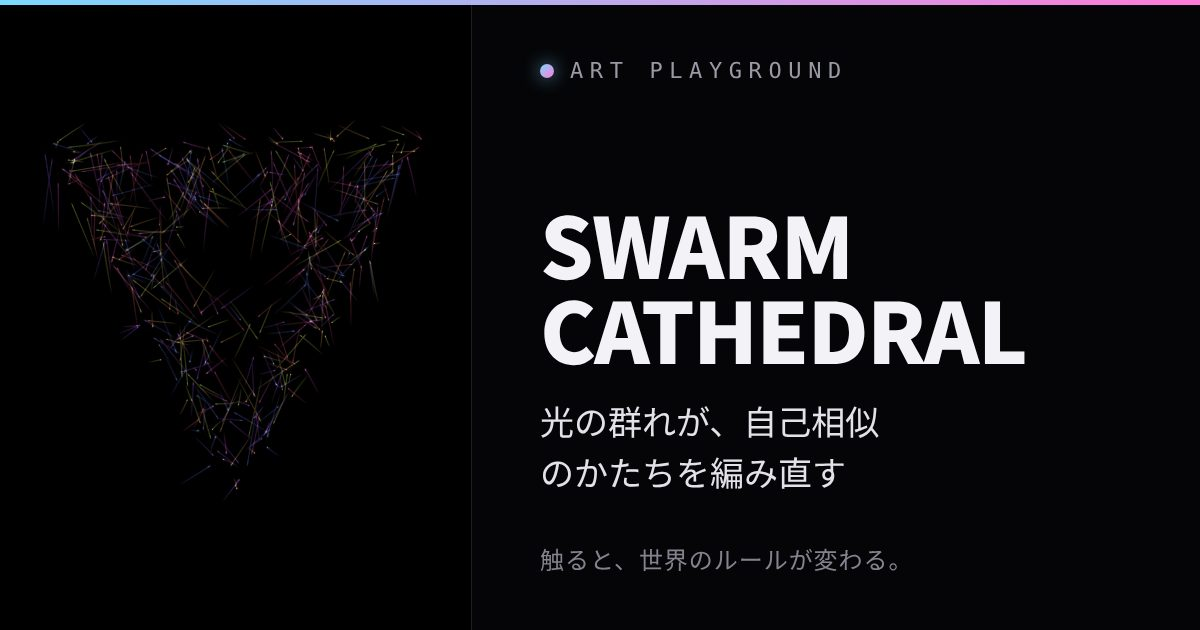
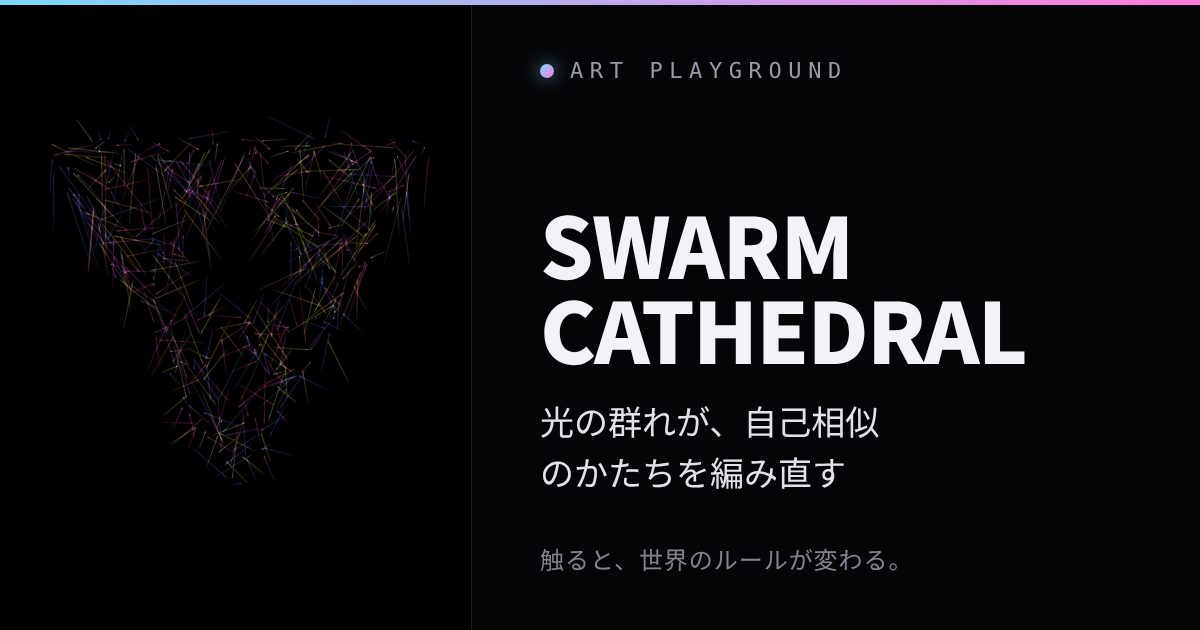
Fix gray afterimage haze in four light-fractal works
Fading by stacking translucent black each frame leaves dim pixels stuck
above zero on Safari (worse at 120Hz). Subtract 1 from all channels every
0.05s to clear the residue. Posters and OG cards regenerated.

Claude-Session: https://claude.ai/code/session_01Vd6xtoDL5wHx6tP8VrJyBW

Changed region(s): [[0.0308, 0.2111, 0.3392, 0.754]]

diff --git a/art-v97-mirror-pool.html b/art-v97-mirror-pool.html
@@ -252,6 +252,21 @@
   }
 
   /* ======== 描画：ひとつの絵を6回、交互に鏡映して重ねる ======== */
+  /* ---- 消え残り対策 ----
+     毎フレーム少しずつ黒を重ねて暗くする方式は、明るさが整数(0〜255)のため、
+     暗い点ほど「2%暗く」が丸められて0まで下がらず、灰色のもやとして残りつづける。
+     0.05秒ごとに明るさを一律1だけ引いて、その残りを確実に消す
+     (白で反転→1を足す→白で反転し戻す、の3回の塗りで「引き算」になる)。 */
+  var floorT = 0;
+  function clearResidue(c2, w, h) {
+    c2.save();
+    c2.setTransform(1, 0, 0, 1, 0, 0);
+    c2.globalAlpha = 1;
+    c2.globalCompositeOperation = 'difference'; c2.fillStyle = '#fff'; c2.fillRect(0, 0, w, h);
+    c2.globalCompositeOperation = 'lighter';    c2.fillStyle = 'rgb(1,1,1)'; c2.fillRect(0, 0, w, h);
+    c2.globalCompositeOperation = 'difference'; c2.fillStyle = '#fff'; c2.fillRect(0, 0, w, h);
+    c2.restore();
+  }
   function render(dt) {
     var fadeA = 1 - Math.exp(-0.9 * dt);              /* バッファはゆっくり消えていく＝長い尾 */
     if (fadeA < 0.0005) fadeA = 0.0005;
@@ -260,6 +275,9 @@
     actx.globalAlpha = 1;
     actx.fillStyle = 'rgba(0,0,0,' + fadeA.toFixed(5) + ')';
     actx.fillRect(0, 0, W, H);
+
+    floorT += dt;
+    if (floorT >= 0.05) { floorT = 0; clearResidue(actx, acc.width, acc.height); }
 
     ctx.setTransform(DPR, 0, 0, DPR, 0, 0);
     ctx.globalCompositeOperation = 'source-over';

diff --git a/art-v94-attractor-veil.html b/art-v94-attractor-veil.html
@@ -234,6 +234,21 @@
   }
 
   /* ---- 描画 ---- */
+  /* ---- 消え残り対策 ----
+     毎フレーム少しずつ黒を重ねて暗くする方式は、明るさが整数(0〜255)のため、
+     暗い点ほど「2%暗く」が丸められて0まで下がらず、灰色のもやとして残りつづける。
+     0.05秒ごとに明るさを一律1だけ引いて、その残りを確実に消す
+     (白で反転→1を足す→白で反転し戻す、の3回の塗りで「引き算」になる)。 */
+  var floorT = 0;
+  function clearResidue(c2, w, h) {
+    c2.save();
+    c2.setTransform(1, 0, 0, 1, 0, 0);
+    c2.globalAlpha = 1;
+    c2.globalCompositeOperation = 'difference'; c2.fillStyle = '#fff'; c2.fillRect(0, 0, w, h);
+    c2.globalCompositeOperation = 'lighter';    c2.fillStyle = 'rgb(1,1,1)'; c2.fillRect(0, 0, w, h);
+    c2.globalCompositeOperation = 'difference'; c2.fillStyle = '#fff'; c2.fillRect(0, 0, w, h);
+    c2.restore();
+  }
   function render(dt) {
     var fadeA = 1 - Math.exp(-0.85 * dt);              /* ゆっくり消える＝雲が尾を引く */
     if (fadeA < 0.0008) fadeA = 0.0008;
@@ -241,6 +256,9 @@
     actx.globalCompositeOperation = 'source-over'; actx.globalAlpha = 1;
     actx.fillStyle = 'rgba(0,0,0,' + fadeA.toFixed(5) + ')';
     actx.fillRect(0, 0, acc.width, acc.height);
+
+    floorT += dt;
+    if (floorT >= 0.05) { floorT = 0; clearResidue(actx, acc.width, acc.height); }
     plot(dt);
 
     ctx.setTransform(DPR, 0, 0, DPR, 0, 0);

diff --git a/art-v98-swarm-cathedral.html b/art-v98-swarm-cathedral.html
@@ -246,6 +246,21 @@
   }
 
   /* ---- 描画 ---- */
+  /* ---- 消え残り対策 ----
+     毎フレーム少しずつ黒を重ねて暗くする方式は、明るさが整数(0〜255)のため、
+     暗い点ほど「2%暗く」が丸められて0まで下がらず、灰色のもやとして残りつづける。
+     0.05秒ごとに明るさを一律1だけ引いて、その残りを確実に消す
+     (白で反転→1を足す→白で反転し戻す、の3回の塗りで「引き算」になる)。 */
+  var floorT = 0;
+  function clearResidue(c2, w, h) {
+    c2.save();
+    c2.setTransform(1, 0, 0, 1, 0, 0);
+    c2.globalAlpha = 1;
+    c2.globalCompositeOperation = 'difference'; c2.fillStyle = '#fff'; c2.fillRect(0, 0, w, h);
+    c2.globalCompositeOperation = 'lighter';    c2.fillStyle = 'rgb(1,1,1)'; c2.fillRect(0, 0, w, h);
+    c2.globalCompositeOperation = 'difference'; c2.fillStyle = '#fff'; c2.fillRect(0, 0, w, h);
+    c2.restore();
+  }
   function render(dt) {
     var fadeA = 1 - Math.exp(-6.5 * dt);
     if (fadeA < 0.02) fadeA = 0.02;
@@ -254,6 +269,8 @@
     ctx.globalCompositeOperation = 'source-over'; ctx.globalAlpha = 1;
     ctx.fillStyle = 'rgba(0,0,0,' + fadeA.toFixed(4) + ')';
     ctx.fillRect(0, 0, W, H);
+    floorT += dt;
+    if (floorT >= 0.05) { floorT = 0; clearResidue(ctx, cvs.width, cvs.height); }
     ctx.globalCompositeOperation = 'lighter';
 
     var i, band, hue, pa = ctx.globalAlpha;

diff --git a/art-v99-morphing-fern.html b/art-v99-morphing-fern.html
@@ -308,6 +308,21 @@
   }
 
   /* ======== 描画 ======== */
+  /* ---- 消え残り対策 ----
+     毎フレーム少しずつ黒を重ねて暗くする方式は、明るさが整数(0〜255)のため、
+     暗い点ほど「2%暗く」が丸められて0まで下がらず、灰色のもやとして残りつづける。
+     0.05秒ごとに明るさを一律1だけ引いて、その残りを確実に消す
+     (白で反転→1を足す→白で反転し戻す、の3回の塗りで「引き算」になる)。 */
+  var floorT = 0;
+  function clearResidue(c2, w, h) {
+    c2.save();
+    c2.setTransform(1, 0, 0, 1, 0, 0);
+    c2.globalAlpha = 1;
+    c2.globalCompositeOperation = 'difference'; c2.fillStyle = '#fff'; c2.fillRect(0, 0, w, h);
+    c2.globalCompositeOperation = 'lighter';    c2.fillStyle = 'rgb(1,1,1)'; c2.fillRect(0, 0, w, h);
+    c2.globalCompositeOperation = 'difference'; c2.fillStyle = '#fff'; c2.fillRect(0, 0, w, h);
+    c2.restore();
+  }
   function render(dt) {
     var fadeA = 1 - Math.exp(-1.25 * dt);                 /* 尾を少し残す＝光の雲 */
     if (fadeA < 0.001) fadeA = 0.001;
@@ -316,6 +331,9 @@
     actx.globalAlpha = 1;
     actx.fillStyle = 'rgba(0,0,0,' + fadeA.toFixed(5) + ')';
     actx.fillRect(0, 0, acc.width, acc.height);
+
+    floorT += dt;
+    if (floorT >= 0.05) { floorT = 0; clearResidue(actx, acc.width, acc.height); }
 
     plot();
 

diff --git a/CHANGELOG.md b/CHANGELOG.md
@@ -1,3 +1,4 @@
+- 2026-10-09 クロード: MORPHING FERN(v99)・ATTRACTOR VEIL(v94)・MIRROR POOL(v97)・SWARM CATHEDRAL(v98)の「残像の灰色のもや」を修正(おっちゃんがiPhoneのスクショで指摘「この残像みたいなのが要らない」)。原因: 毎フレーム薄い黒を重ねて暗くする方式は、明るさが整数のため暗い点の「数%暗く」が丸められて0まで下がらず灰色で残る(iPhoneの120Hzでは1コマの暗くする量が半分になり、明るさ約48以下が残る計算。ヘッドレスChromiumでは再現しない=Safari特有の丸め)。対策: 0.05秒ごとに明るさを一律1引く処理(白で反転→1足す→白で反転し戻す、の3回の塗り)を追加。ヘッドレスChromiumで引き算が正確(40→10回で30、黒は黒のまま)なこと、4作品のタップ・なぞる・✦・↻でエラーなしを確認。ポスター・OGPを作り直し、`--check`とも終了コード0。**iPhone実機(Safari)でもやが消えるかは未確認**(art-v94, art-v97, art-v98, art-v99, posters/, og/, CHANGELOG.md)
 - 2026-10-09 クロード: Arena持ち込みの光のフラクタル6作品を採用・art-v94〜v99として昇格し、ギャラリーLOG先頭に追加(おっちゃん「録画も付けて採用で」「他の作品も録画追加して採用」)。CURRENTはNEST LAWのまま。ATTRACTOR VEIL(v94、指が式の係数そのものを引っぱる)・DROSTE RAIN(v95、画面が自分の縮小写しを重ね無限の入れ子になる)・FROST CATHEDRAL(v96、拡散律速凝集の霜、風下へ伸び色の違う種が混ざる)・MIRROR POOL(v97、一枚の絵が六つに折り返される)・SWARM CATHEDRAL(v98、群れがIFS図形の持ち場をシャッフルして編み直す)・MORPHING FERN(v99、IFS係数の補間で別の生きものへ)。同じ作品集のGOLDEN BLOOMとTIDAL MANDALAは不採用(おっちゃん判断)。主な改良: ATTRACTOR VEIL=触ると止まるバグ(未定義スプライト)・高精細画面で絵が左上1/4にずれる・点が周期軌道に縮んで真っ暗になる・白飛びを修正し、外枠に合わせて画面中央に収める。DROSTE RAIN=多角形と四角の窓枠(おっちゃん「ダサい」)をしずくの弧に変更。FROST CATHEDRAL=色の組み合わせ6種(育つたび・↻以外の作り直しで替わる)、タップの種が別の色で育つ、粒を明るく、にじみの座標ずれを修正。全作品にap-kit.js統合(✦/↻・clockFormat/dock/autoHide/fullscreenButton:false、GIFなし、pointerdownの先頭でAPKit.isUI、#hintをボタン列の上へ)。`META`に6作品の操作ヒント、`REC_WORKS`に6作品を追加。Published worksはNEST LAWの直後に追加。`tools/poster-config.json`に6作品(`hide:#hint`ほか)を追加し、ポスターとOGPカードを生成、`gen_posters.py --check`・`gen_og.py --check`とも終了コード0(目視確認済み)。スマホ幅(390×844)のヘッドレスChromiumで、タップ・なぞる・✦・↻でエラーなし。ギャラリーの本物の録画ボタン→触る→停止を6作品とも通し、mp4(720幅)に作品と透かしが映り、始めと終わりで絵が変わることを確認。**スマホ実機での動作・録画中の重さは未確認**(MIRROR POOLは毎フレーム全画面を6回重ねるので一番重い可能性。重ければ`REC_WORKS`から外す)(art-v94〜v99, index.html, posters/, og/, tools/poster-config.json, CHANGELOG.md)
 - 2026-10-08 クロード: LIVING REEFをart-v93として採用・追加し、ギャラリーLOG先頭に追加(おっちゃんがArena(エージェントモード)で作った「Living Reef of Light」を持ち込み→クロちゃんが改良→「ボタン類を追加などしてから作品へ」)。CURRENTはNEST LAWのまま。世界のルールは「光の樹は枝先から胞子を飛ばし、その一部が種になって新しい樹がひとりでに生える(触らなくても増え、枯れ、入れ替わる)」。枝は5〜6階層の自己相似。改良点: ①下半分の樹は上へ、上半分の樹は天井から垂れ下がって伸びる(元は下半分にしか生えず上が真っ暗だった)②なぞる=風(なぞった方向に枝がしなり胞子が流れる。元は枝が指に吸い寄せられて団子になっていた)③種まきは指を離した時に判定し、なぞっただけでは植えない④120Hz画面で8bitの丸めにより残像が消え残る問題を、消す処理を1/70秒ぶん溜めてから行う方式で対策⑤指のオーラは押している間だけ(PCのホバーでは出さない)⑥操作説明に「光る芽をタップ=胞子が弾ける」を追加し、ap-kitのボタン列と重ならない高さへ移動。ap-kit.js統合(✦=別の色の組み合わせと枝ぶりで撒き直す、↻=最初の世界、clockFormat/dock/autoHide/fullscreenButton:false、GIF・？なし、pointerdownの先頭でAPKit.isUI)。Published worksはNEST LAWの直後に追加、`META`に操作ヒント「タップで光の種を植える。なぞると風が吹く」を1行追加。`tools/poster-config.json`に`hide:#hint`と種を3つ植える`taps`を追加し、ポスター(`posters/`)とOGPカード(`og/`)を生成、`gen_posters.py --check`・`gen_og.py --check`とも終了コード0(文字・指のオーラが写っていないことを目視で確認)。スマホ幅(390×844、DPR2)のヘッドレスChromiumで描画・タップ・なぞる・2本指・✦・↻を確認しエラーなし。**スマホ実機での確認は未了**(art-v93-living-reef.html, index.html, posters/, og/, tools/poster-config.json, CHANGELOG.md)
 - 2026-10-08 クロード: 試作UNMIX(prototypes/unmix.html)を追加(おっちゃんが見せてくれたMario Carrillo氏「Tayas」の動画=ブラインドの羽ごとにずれた黒い刃と虹色の縁、を参考に「これっぽく」)。世界のルールは「段(羽)ごとに風の速さが違う。丸い夜は段ごとにずれて刃になるが、ずれただけで混ざってはいない(粘い流れの可逆性)ので、押さえると元の丸に戻る。遠くへ流れ去った夜は戻らない」。タップ=夜を落とす、横になぞる=その段の風を書き換える(段は覚えている)、押さえる=風が止まりずれが巻き戻る(丸に戻ると縁が光る)、✦=別の風と色、↻=最初の世界。WebGL(夜×段のずれ量をテクスチャで渡す)、DPR最大2、重いと自動で解像度を下げる。冒頭に操作説明(#hint、6.5秒か初タッチで消える)あり→採用時は`poster-config.json`に`hide`が要る。ヘッドレスChromium(GPUなし、390×844)で約26〜36fps。**スマホ実機は未確認**(prototypes/unmix.html, CHANGELOG.md)
